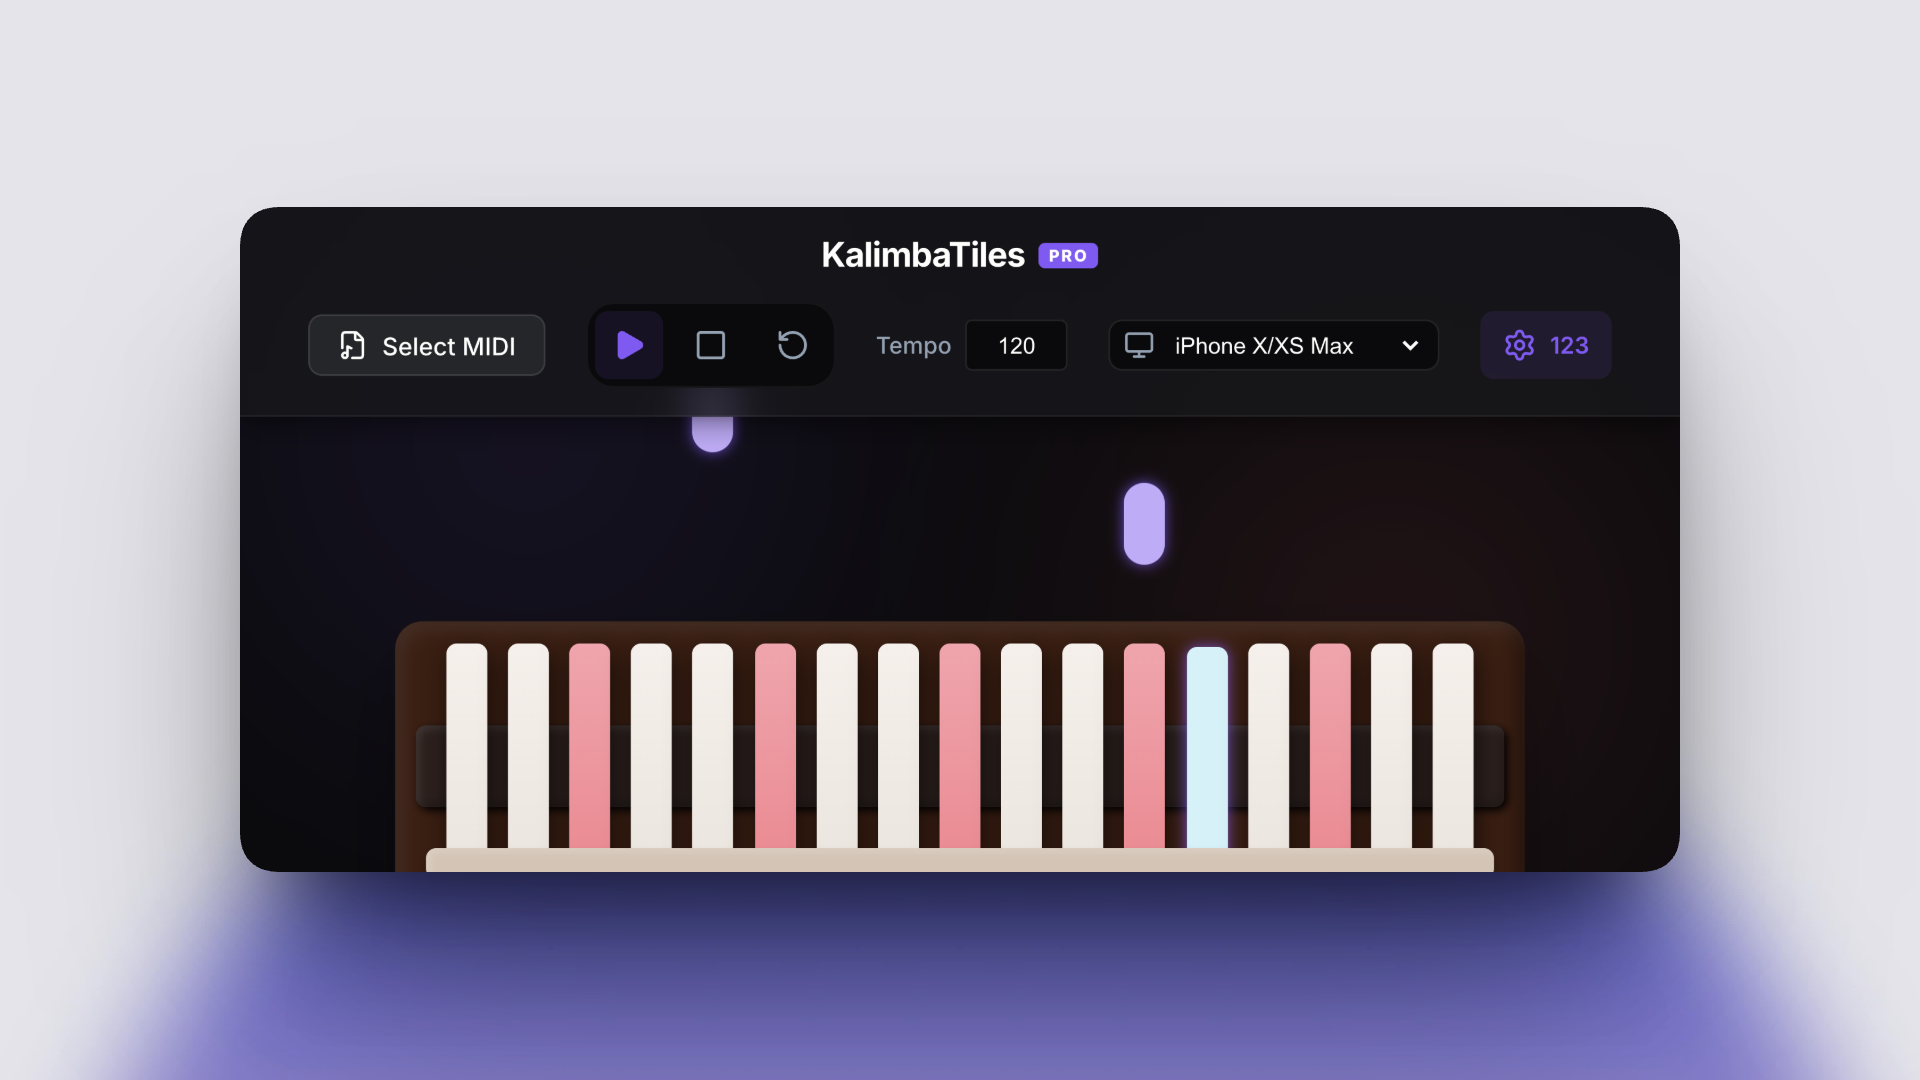
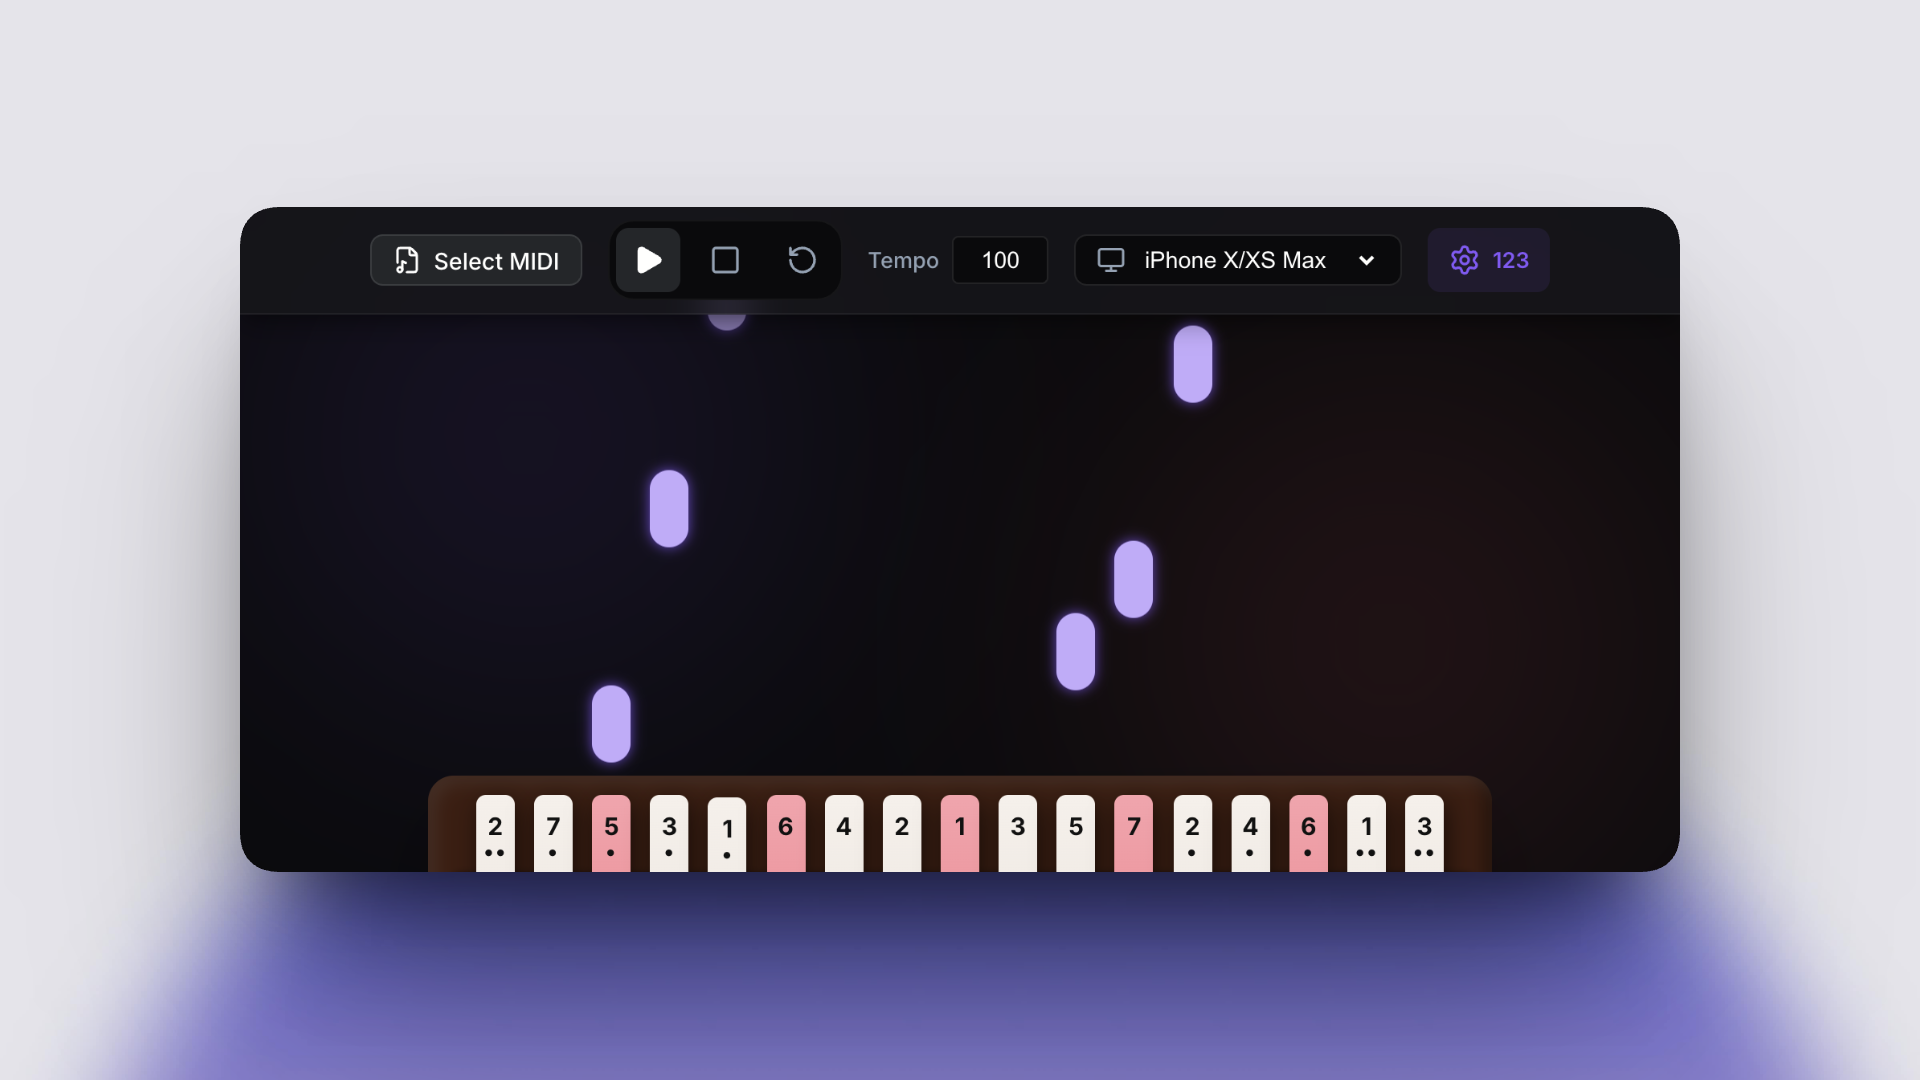
v2.0.6: User tweaked kalimba margin, updated package version, and replaced main screenshot

diff --git a/src/components/Kalimba.css b/src/components/Kalimba.css
@@ -144,7 +144,7 @@
 @media (max-height: 600px) and (orientation: landscape) {
   .kalimba-container {
     padding-bottom: 0;
-    margin-bottom: calc(var(--ppi) * -55px / 25.4); /* Hide most of the Kalimba (leaves about 1.5cm visible) */
+    margin-bottom: calc(var(--ppi) * -60px / 25.4); /* Hide most of the Kalimba (leaves about 1.5cm visible) */
   }
 
   .kalimba-key {
